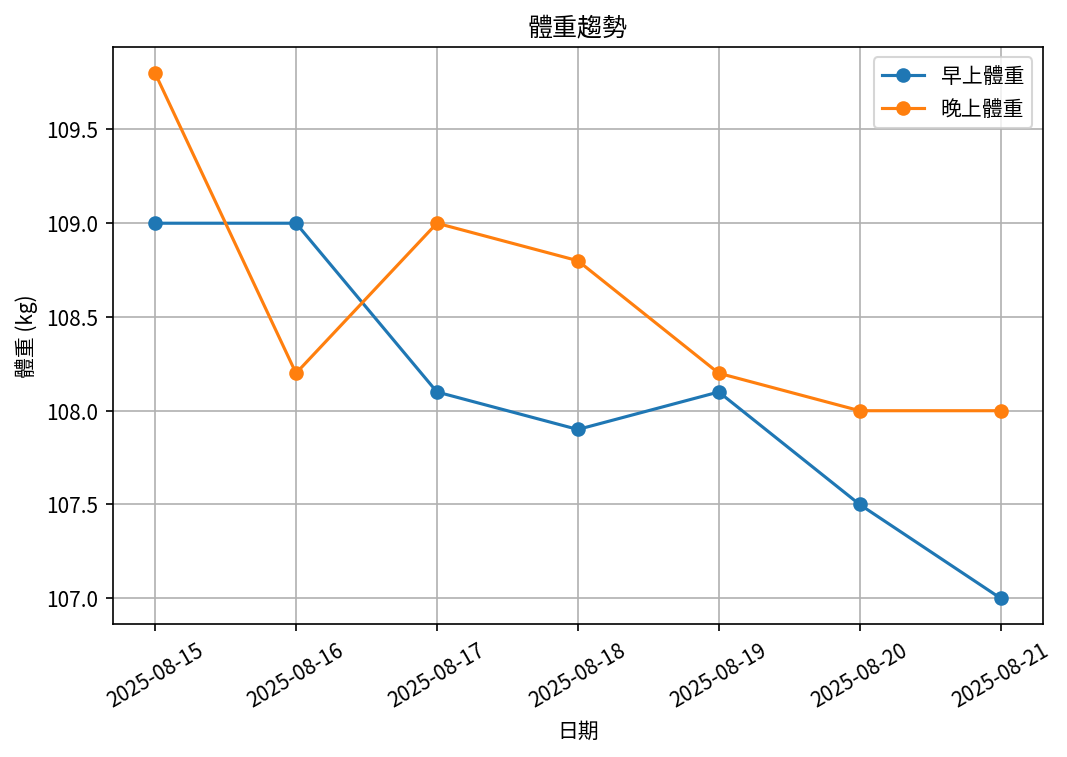
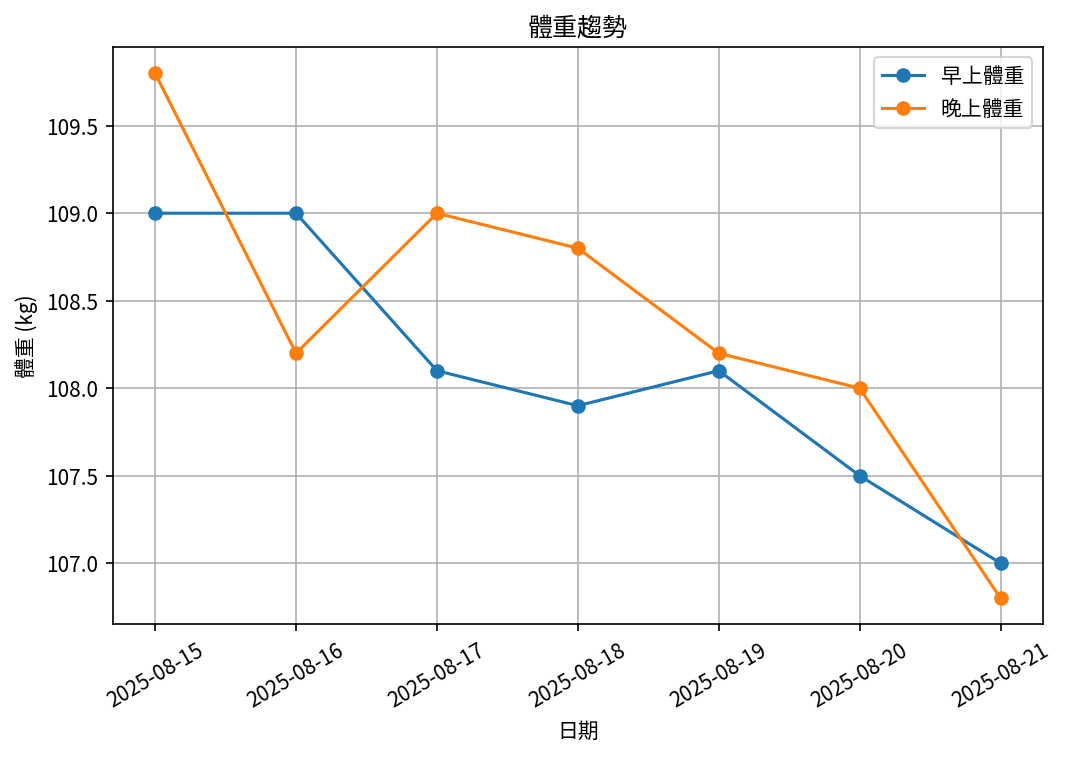
update values

diff --git a/reports/2025-CW01_weekly_report.md b/reports/2025-CW01_weekly_report.md
@@ -14,7 +14,7 @@
 | 08/18 (週一) |           107.9 |           108.8 |           30.7 |           27.9 |
 | 08/19 (週二) |           108.1 |           108.2 |           30.3 |           29.5 |
 | 08/20 (週三) |           107.5 |           108   |           30.5 |           27.7 |
-| 08/21 (週四) |           107   |           108   |           30.4 |           27   |
+| 08/21 (週四) |           107   |           106.8 |           30.4 |           27   |
 
 ---
 
@@ -28,8 +28,8 @@
 ## 📌 本週統計
 
 - 體重（AM）：109.0 → 107.0 kg  (**-2.0 kg**), 週平均 108.1 kg  
-- 體重（PM）：109.8 → 108.0 kg  (**-1.8 kg**), 週平均 108.6 kg  
-- 體重（AM+PM 平均）：108.3 kg  
+- 體重（PM）：109.8 → 106.8 kg  (**-3.0 kg**), 週平均 108.4 kg  
+- 體重（AM+PM 平均）：108.2 kg  
 
 - 體脂（AM）：30.3% → 30.4%  (**0.1%**), 週平均 30.5%  
 - 體脂（PM）：29.0% → 27.0%  (**-2.0%**), 週平均 28.3%  
@@ -40,6 +40,27 @@
 ---
 
 ## ✅ 建議
-- 維持 **高蛋白 (每公斤 1.6–2.0 g)** 與 **每週 2–3 次阻力訓練**  
-- 飲水 **≥ 3 L/天**（依活動量調整）  
-- 若每週下降 > 2.5 kg，建議微調熱量或與醫師討論  
+- **體重下降幅度**  
+  - 早上體重一週減少 **2.0 kg**（屬於快速但尚可接受範圍）。  
+  - 晚上體重減少 **3.0 kg**，幅度偏快，可能包含較多水分流失。  
+  👉 下週建議**放慢速度**，目標控制在 **-0.5 ～ -1.5 kg/週**。
+
+- **體脂變化**  
+  - 早上體脂幾乎持平（30.3% → 30.4%），顯示體脂下降有限，需更重視**肌肉保留**。  
+  - 晚上體脂下降 2%，但受水分影響大。  
+  👉 請持續觀察 **早上體脂** 作為主要指標。
+
+- **飲食**  
+  - 維持 **高蛋白攝取 (1.6–2.0 g/kg，約 175–220 g/日)**，避免在快速減重中流失肌肉。  
+  - 若發現早上體重連續 2 週 > 2.5 kg 降幅，考慮**增加 100–200 kcal/日**，優先來自蛋白質或複合性澱粉。
+
+- **運動**  
+  - 建議每週 **2–3 次阻力訓練**，涵蓋腿、胸、背、肩大肌群，每次 30–45 分鐘。  
+  - 搭配中低強度有氧（如快走/腳踏車 20–30 分鐘），幫助心肺與能量消耗。
+
+- **水分與副作用管理**  
+  - 維持 **≥ 3 L/日** 飲水量，分散小口喝，必要時補充電解質。  
+  - 留意是否有噁心、便祕、頭暈等 GLP-1 常見副作用；若持續或加劇，應諮詢醫師。
+
+- **量測習慣**  
+  - 建議以 **早上空腹、如廁後** 的體重與體脂為主要追蹤依據；晚上數據波動僅供參考。
